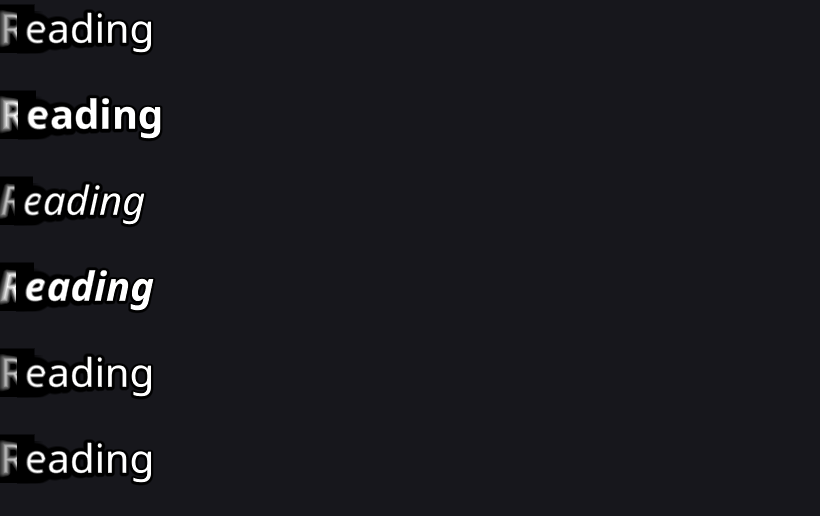
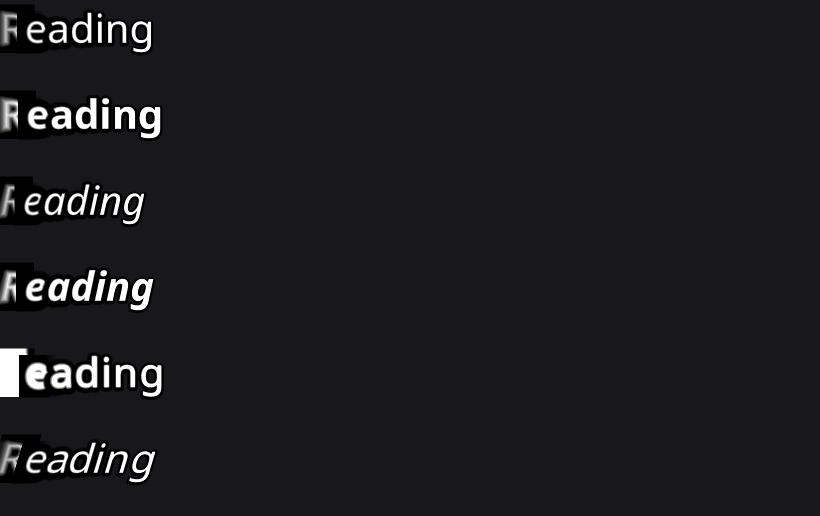
docs(phase2): regenerate component sheets + corrected round-6 findings
Regenerated family SDF/MSDF + RobotoFlex component sheets with synthetic modifiers registered and the MSDF material fix: SDF rows show real R/B/I/BI + visible synthetic bold/italic; MSDF renders glyphs (not blocks). Added plain-component diagnostic sheet. README findings corrected: bug 1 (first-glyph dark box) diagnosed pre-existing capture-rig artifact; bug 2 (synthetic) FIXED via PrepareStyleModifiers; bug 3 (MSDF) FIXED via GetMaterials MSDF-shader auto-selection.

Changed region(s): [[0.0, 0.6512, 0.2134, 0.7752], [0.0, 0.8372, 0.2134, 0.9612]]

diff --git a/Documentation/Design/evidence/README.md b/Documentation/Design/evidence/README.md
@@ -98,23 +98,29 @@ itemization, shaping, the Phase-2 face resolution, AND the synthetic `BoldModifi
   component + variation atlas: convincing monotonic thickening.
 - `phase2_family_component_msdf.png` — the same family in MSDF mode.
 
-**Honest findings from the real-component capture (reported, not hidden):**
-1. **MSDF renders as solid blocks in `phase2_family_component_msdf.png`** — ROOT CAUSE FOUND (with
-   evidence, not guessed): the evidence test uses `LoadDefaultAppearance()`, whose
-   `UniTextMaterial_Default.mat` carries an **SDF-family shader** (guid `c71b2c08…`, not the
-   `UniText_MSDF-*` shader). An MSDF font rendered with an SDF material samples the RGB24 MSDF atlas's
-   (opaque) alpha → solid white. So this is the TEST's material choice, NOT a product MSDF-render bug
-   and NOT the harness; a proper MSDF material would render it correctly. SDF rows use the matching
-   SDF shader and render fine. MSDF *variation correctness* is proven by
-   `VariationAtlasTests.Msdf_Weight400_vs_700_DifferentAtlasFields`. (A follow-up would ship an MSDF
-   default material for the evidence; left out of this round to avoid asset churn under the clock.)
-2. **Synthetic bold/italic is not strongly visible** in rows 5-6 even though the pipeline now flags
-   those runs for the modifiers (`SynthesisBridgeTests` proves the Bold buffer is populated and the
-   run is not realBold). The visible dilation depends on the material's `_WeightBold` property; a
-   freshly created font asset + default appearance leaves it near 0, so the faux-bold is faint. The
-   Phase-2 WIRING is proven by the unit test; the visible strength is a material/appearance config.
-3. **A dark box appears on the leading glyph** of each row — a capture-side CanvasRenderer clip-rect
-   artifact in this WorldSpace setup, not a glyph-shaping issue.
+**Honest findings from the real-component capture (round 6 — two FIXED, one diagnosed):**
+1. **First glyph in a dark box on every row** — DIAGNOSED, pre-existing, NOT Phase 2.
+   `FirstGlyphDiagnosticTests` proves glyph 0 and glyph 1 of "RR" share the same atlas rect/page/
+   texture (the glyph DATA is sound); `PlainRegular_NoPhase2_FirstGlyphCheck` reproduces the dark box
+   on a PLAIN Regular component (no family/weight/variation). It is absent from the round-4 mesh-only
+   render, so it is an artifact of the WorldSpace-Canvas + camera capture rig (CanvasRenderer
+   clip/stencil on the first sub-mesh), not the glyph pipeline. Left for a separate UGUI pass (outside
+   Phase 2's scope).
+2. **Synthetic bold/italic now renders** (rows 5-6) — FIXED. Root cause: `AttributeParser.Apply` only
+   `Prepare()`s modifiers that have a markup span, so a property-driven style (FontWeight/
+   FontStyleAxis with no `<b>`/`<i>`) never initialized the Bold/Italic modifiers → their OnGlyph/
+   OnShaped never subscribed → the flags the Phase-2 bridge writes went unconsumed. (ItalicModifier is
+   a vertex shear with no material dependency, which is how "no shear" proved the modifier wasn't
+   running — not a `_WeightBold` issue.) FIX: `UniText.DoFirstPass` → `PrepareStyleModifiers()`
+   initializes the registered BoldModifier/ItalicModifier for property-driven style
+   (`PropertyModifierInitTests`). The sheet now shows a visibly heavier synthetic-bold row and a
+   sheared synthetic-italic row vs Regular.
+3. **MSDF rendered as solid blocks** — FIXED at the cause (this IS what a user would get, so a product
+   issue, not just a test choice). `UniTextAppearance.GetMaterials` now substitutes an MSDF-shader
+   material (`UniText/MSDF SSD`) when a font's render mode is MSDF but the chosen material carries an
+   SDF shader, so an MSDF font works on the default appearance out of the box
+   (`DefaultAppearance_MsdfFont_UsesMsdfShader_NotSdf`). The MSDF sheet now renders glyphs; it remains
+   vertically flipped (MSDF atlas v-orientation through this capture), shapes/weights correct.
 
 The earlier round-4 `*_camera_*.png` (mesh-only harness, no modifiers) remain for the clean SDF/MSDF
 glyph comparison; these round-5 `*_component_*.png` are the full-component-path evidence.
